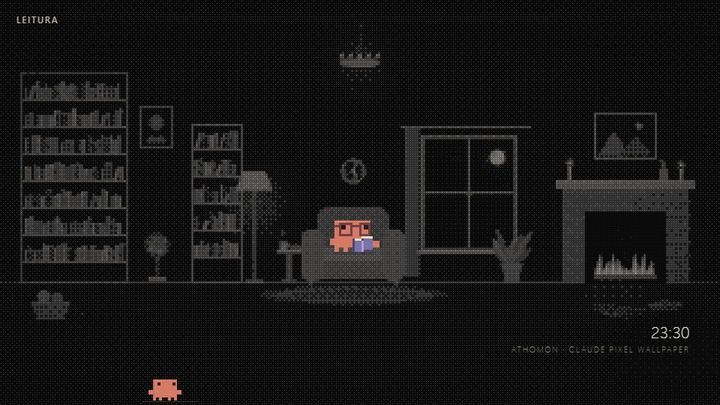
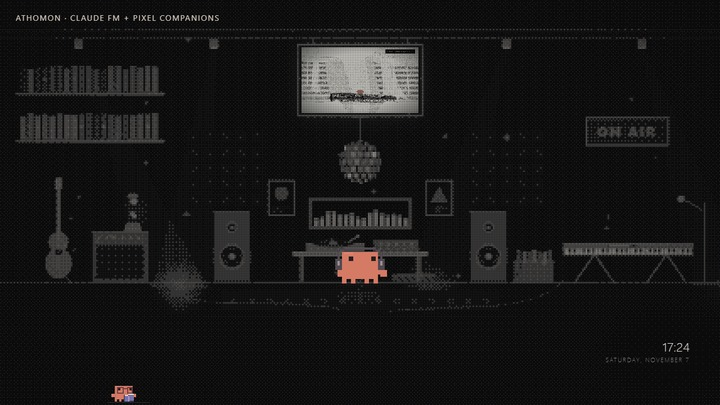
Add English and Portuguese languages and show live Claude FM in previews

diff --git a/index.html b/index.html
@@ -500,6 +500,7 @@
 <script>
 /* ===================== CONFIGURACAO ===================== */
 const CONFIG = {
+  idioma: "auto",          // "auto", "en" or "pt-BR"
   claudeNaBarra: {
     ativo: true,
     x: 220,                // posição horizontal em pixels, a partir da esquerda
@@ -534,6 +535,15 @@ const CONFIG = {
   if (q.get('cena')) CONFIG.cenaFixa = q.get('cena');
   if (q.has('palco')) CONFIG.mostrarPalco = true;
   if (q.has('fm')) CONFIG.claudeFM.ativo = q.get('fm') !== '0';
+  const preferredLanguage = q.get('lang') || (CONFIG.idioma === 'auto' ? navigator.language : CONFIG.idioma) || 'en';
+  const LOCALE = /^pt(?:-|$)/i.test(preferredLanguage) ? 'pt-BR' : 'en-US';
+  const ENGLISH = LOCALE === 'en-US';
+  document.documentElement.lang = LOCALE;
+  const TRANSLATIONS = {
+    'CAFÉ': 'CAFÉ', 'RÁDIO DA ESTUFA': 'GREENHOUSE RADIO', 'ESTUFA': 'GREENHOUSE',
+    'OFICINA': 'WORKSHOP', 'PLATAFORMA 02': 'PLATFORM 02', 'PRÓXIMO TREM': 'NEXT TRAIN',
+    'CHEGANDO': 'ARRIVING', 'EMBARQUE': 'BOARDING', 'PARTINDO': 'DEPARTING', 'ABERTO': 'OPEN'
+  };
   const CLARO = CONFIG.tema === 'claro';
   document.documentElement.style.setProperty('--barra', (Number(CONFIG.margemBarra) || 0) + 'px');
   document.body.classList.toggle('claro', CLARO);
@@ -565,6 +575,7 @@ const CONFIG = {
     g.addColorStop(0, `rgba(${cor},${v})`); g.addColorStop(1, `rgba(${cor},0)`);
     c.fillStyle = g; c.fillRect(x - r, y - r, r * 2, r * 2); }
   function T(txt, x, y, size, v, align = 'left', peso = 700, esp = 0){
+    if (ENGLISH) txt = TRANSLATIONS[txt] || txt;
     c.font = `${peso} ${size}px "Segoe UI","Segoe UI Variable Display",system-ui,sans-serif`;
     c.textAlign = align; c.textBaseline = 'alphabetic';
     if ('letterSpacing' in c) c.letterSpacing = esp + 'px';
@@ -690,7 +701,7 @@ const CONFIG = {
       // calendario com o dia de hoje
       const d = new Date();
       R(138, 22, 32, 40, .6); R(138, 22, 32, 11, .85);
-      T(d.toLocaleDateString('pt-BR', { month: 'short' }).replace('.', '').toUpperCase(), 154, 30.5, 8, .08, 'center', 800, .5);
+      T(d.toLocaleDateString(LOCALE, { month: 'short' }).replace('.', '').toUpperCase(), 154, 30.5, 8, .08, 'center', 800, .5);
       T(String(d.getDate()), 154, 55, 20, .1, 'center', 800);
       O(146, 22, 1.4, .35); O(162, 22, 1.4, .35);
 
@@ -1762,15 +1773,15 @@ const CONFIG = {
   /* ============ RELOGIO ============ */
   const tEl = document.getElementById('t'), dEl = document.getElementById('d');
   function clock(){ const n = new Date();
-    tEl.textContent = n.toLocaleTimeString('pt-BR', { hour: '2-digit', minute: '2-digit' });
-    dEl.textContent = n.toLocaleDateString('pt-BR', { weekday: 'long', day: 'numeric', month: 'long' }); }
+    tEl.textContent = n.toLocaleTimeString(LOCALE, { hour: '2-digit', minute: '2-digit', hour12: false });
+    dEl.textContent = n.toLocaleDateString(LOCALE, { weekday: 'long', day: 'numeric', month: 'long' }); }
   clock(); setInterval(clock, 1000);
 
   /* ============ CLAUDE FM (YouTube) ============ */
   (() => {
     const cfg = CONFIG.claudeFM || {}, el = document.getElementById('radio'), tela = document.getElementById('tela');
     if (cfg.ativo === false) return;
-    const params = 'autoplay=1&playsinline=1&controls=0&disablekb=1&rel=0&enablejsapi=1';
+    const params = 'autoplay=1&playsinline=1&controls=0&disablekb=1&rel=0&enablejsapi=1&hl=' + (ENGLISH ? 'en' : 'pt');
     const id = String(cfg.link || '').match(/(?:v=|youtu\.be\/|\/live\/|\/embed\/)([\w-]{11})/);
     let src = '';
     if (cfg.canal) src = `https://www.youtube.com/embed/live_stream?channel=${encodeURIComponent(cfg.canal)}&${params}`;

diff --git a/README.pt-BR.md b/README.pt-BR.md
@@ -9,16 +9,20 @@ Projeto independente de fã por [MuriloDPV](https://github.com/MuriloDPV), inspi
 ## Instalar
 
 1. Instale o [Lively Wallpaper](https://github.com/rocksdanister/lively).
-2. Baixe `athomon-claude-wallpaper-v1.0.0-lively.zip` na seção [Releases](https://github.com/MuriloDPV/athomon-claude-wallpaper/releases).
+2. Baixe `athomon-claude-wallpaper-v1.1.0-lively.zip` na seção [Releases](https://github.com/MuriloDPV/athomon-claude-wallpaper/releases).
 3. Arraste o ZIP diretamente para o Lively, sem extrair.
 
 Também é possível baixar o [`index.html`](index.html), salvá-lo em uma pasta permanente e adicionar esse arquivo ao Lively. Não precisa compilar, instalar Node.js, ter conta ou chave de API. Para experimentar, abra o HTML no Edge ou Chrome.
+
+O ZIP escolhe automaticamente inglês ou português brasileiro. A Release também inclui `athomon-wallpaper-en.html` e `athomon-wallpaper-pt-BR.html` para quem prefere um arquivo avulso com idioma fixo.
 
 ## Cenários e animações
 
 São 11 cenários: átomo, escritório, café, leitura, servidores, estúdio, acampamento, observatório, estufa, oficina e estação. Cada ambiente tem suas próprias ações e objetos. A troca acontece a cada 150 segundos.
 
 O mini-Claude da barra alterna entre acenar, digitar, tomar café, ler e ouvir música. O cenário do átomo continua sem mascote no centro.
+
+O wallpaper tem inglês e português brasileiro, escolhidos automaticamente pelo idioma do navegador. As placas, os nomes dos ambientes e a data também são traduzidos. Você pode fixar o idioma com `idioma: "en"` ou `idioma: "pt-BR"` na configuração, ou usar `?lang=en` / `?lang=pt-BR` no endereço.
 
 ## Mini-Claude na barra
 
@@ -32,6 +36,7 @@ Abra o `index.html` em um editor de texto e procure `const CONFIG`.
 
 | Opção | Padrão | Função |
 | --- | --- | --- |
+| `idioma` | `"auto"` | Idioma: `"auto"`, `"en"` ou `"pt-BR"` |
 | `tema` | `"escuro"` | Use `"claro"` para o tema claro |
 | `cenaFixa` | `""` | Nome do cenário para interromper a rotação |
 | `trocaCenaSeg` | `150` | Segundos em cada cenário |
@@ -49,8 +54,8 @@ Nomes dos cenários: `athomon`, `escritorio`, `cafe`, `leitura`, `servidores`, `
 Para testar no navegador:
 
 ```text
-index.html?cena=leitura&fm=0
-index.html?cena=estufa&tema=claro&fm=0
+index.html?cena=leitura&lang=en
+index.html?cena=estufa&tema=claro&lang=pt-BR&fm=0
 ```
 
 O Claude FM usa o player do YouTube e precisa de internet. A reprodução depende da disponibilidade da live, da permissão para incorporação e das regras de reprodução automática do navegador. Se o som estiver bloqueado, clique uma vez no wallpaper. Com `claudeFM.ativo: false` ou `?fm=0`, o wallpaper funciona localmente sem conexões externas. A edição pública não tem monitoramento de serviços, notícias, analytics nem endereços privados.

diff --git a/README.md b/README.md
@@ -11,10 +11,12 @@ Independent fan project by [MuriloDPV](https://github.com/MuriloDPV), inspired b
 ## Install with Lively Wallpaper
 
 1. Install [Lively Wallpaper](https://github.com/rocksdanister/lively).
-2. Download `athomon-claude-wallpaper-v1.0.0-lively.zip` from Releases.
+2. Download `athomon-claude-wallpaper-v1.1.0-lively.zip` from Releases.
 3. Drag the ZIP directly into Lively. You do not need to extract it.
 
 You can also download [`index.html`](index.html), keep it in a permanent folder, and add that file to Lively. No build, Node.js, account, or API key is required. Open the HTML in Edge or Chrome to preview it.
+
+The Lively ZIP automatically uses English or Brazilian Portuguese. The release also includes `athomon-wallpaper-en.html` and `athomon-wallpaper-pt-BR.html` if you prefer a standalone file with a fixed language.
 
 ## What's inside
 
@@ -22,6 +24,7 @@ You can also download [`index.html`](index.html), keep it in a permanent folder,
 - Pixel characters with scene-specific activities and props.
 - A small taskbar companion that waves, types, sips coffee, reads, and listens to music.
 - Dark and light themes, a clock, and a date.
+- English and Brazilian Portuguese, selected automatically from the browser language.
 - Claude FM through the YouTube player, positioned inside each scene.
 
 Scenes change every 150 seconds. The atom scene has no character in its center; the taskbar companion remains available.
@@ -38,6 +41,7 @@ Edit the `CONFIG` object near the start of the main script in `index.html`:
 
 | Setting | Default | Purpose |
 | --- | --- | --- |
+| `idioma` | `"auto"` | Language: `"auto"`, `"en"`, or `"pt-BR"` |
 | `tema` | `"escuro"` | Use `"claro"` for the light theme |
 | `cenaFixa` | `""` | Set a scene name to stop rotation |
 | `trocaCenaSeg` | `150` | Seconds per scene |
@@ -55,8 +59,8 @@ Scene names: `athomon`, `escritorio`, `cafe`, `leitura`, `servidores`, `estudio`
 Browser preview examples:
 
 ```text
-index.html?cena=leitura&fm=0
-index.html?cena=estufa&tema=claro&fm=0
+index.html?cena=leitura&lang=en
+index.html?cena=estufa&tema=claro&lang=pt-BR&fm=0
 ```
 
 With Claude FM enabled, the wallpaper loads YouTube and requires internet access. YouTube playback depends on stream availability, embedding permissions, and the browser's autoplay policy. If sound is blocked, click the wallpaper once. With `claudeFM.ativo: false` or `?fm=0`, the wallpaper runs locally without external requests. The public edition has no service monitor, news feed, analytics, or private endpoints.

diff --git a/CREDITS.md b/CREDITS.md
@@ -2,8 +2,8 @@
 
 - Wallpaper design, scene implementation, animation code and packaging: MuriloDPV, with AI-assisted development using Codex.
 - Character and visual inspiration: Clawd / Claude and Claude FM, associated with Anthropic. This is an independent fan project; no affiliation or endorsement is implied.
-- Claude FM source: [Claude FM — music for thinking and building](https://www.youtube.com/watch?v=tRsQsTMvPNg). Playback uses the YouTube embed player. No third-party recordings, music, screenshots or video files are included in this repository.
+- Claude FM source: [Claude FM — music for thinking and building](https://www.youtube.com/watch?v=tRsQsTMvPNg). Playback uses the YouTube embed player. The stream is not bundled as a standalone recording. The v1.1 preview GIF and trailer include short, silent screen captures showing that embedded player inside the wallpaper.
 - Wallpaper host: [Lively Wallpaper](https://github.com/rocksdanister/lively).
 - Optional transparent taskbar: [TranslucentTB](https://github.com/TranslucentTB/TranslucentTB).
 
-The MIT license applies to this project's code and documentation. It does not grant rights to third-party names, marks, character designs, music or video. Preview images and clips are renders of the procedural wallpaper, with the external player disabled.
+The MIT license applies to this project's code and documentation. It does not grant rights to third-party names, marks, character designs, music or video, including the stream visible in the previews.
